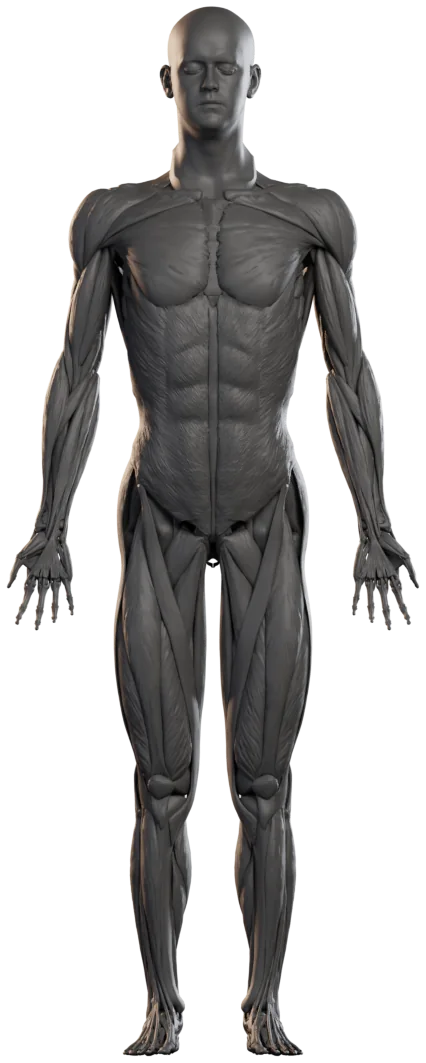
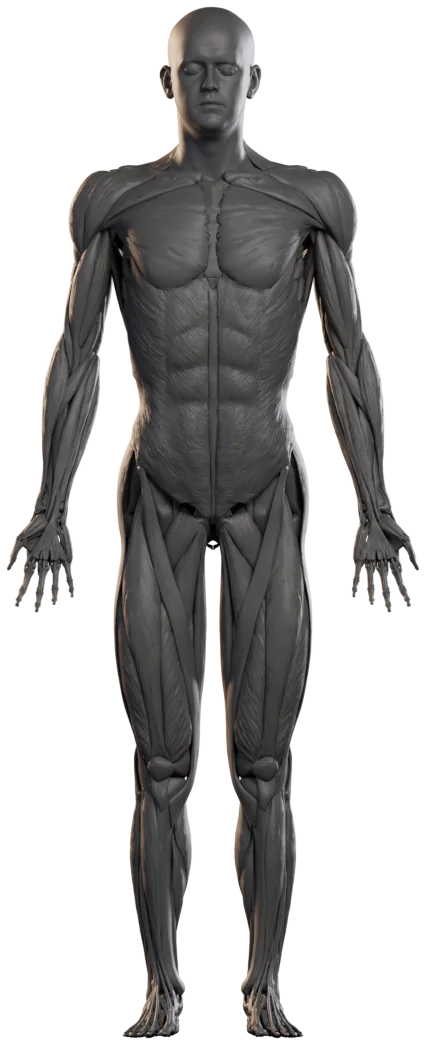
Shorten the anatomy figure's neck
Lowers the head scan 3 cm onto the traps for a thicker, more athletic neck.
Re-rendered beauty and ID maps.

Claude-Session: https://claude.ai/code/session_018p5ShPLkAdsKbAirBRCepd

diff --git a/styles.css b/styles.css
@@ -382,7 +382,7 @@ select.txt { background-image: linear-gradient(45deg, transparent 50%, var(--mu)
 .body-map { display: grid; grid-template-columns: 1fr 1fr; gap: 8px; }
 .body-map figure { margin: 0; display: flex; flex-direction: column; align-items: center; }
 .body-map figcaption { font-size: 11px; font-weight: 700; letter-spacing: .08em; text-transform: uppercase; color: var(--mu2); margin-top: 4px; }
-.body-cv { width: 100%; max-width: 190px; aspect-ratio: 426 / 1063; height: auto; display: block; cursor: pointer; }
+.body-cv { width: 100%; max-width: 190px; aspect-ratio: 426 / 1045; height: auto; display: block; cursor: pointer; }
 .body-map { background: radial-gradient(60% 45% at 50% 40%, rgba(255, 138, 61, .06), transparent 70%); border-radius: 14px; padding-top: 6px; }
 .body-legend { display: flex; align-items: center; gap: 8px; margin: 12px 4px 0; font-size: 11.5px; color: var(--mu); font-weight: 600; }
 .body-legend i { flex: 1; height: 6px; border-radius: 6px; background: linear-gradient(90deg, #3a3633, #a8471c, var(--accent2)); }

diff --git a/sw.js b/sw.js
@@ -1,5 +1,5 @@
 // Stale-while-revalidate app shell: opens instantly offline, picks up new versions on next launch.
-const CACHE = 'kiln-v11';
+const CACHE = 'kiln-v12';
 const ASSETS = ['./', 'index.html', 'styles.css', 'exercises.js', 'body.js', 'app.js', 'manifest.webmanifest',
   'img/body-front.webp', 'img/body-back.webp', 'img/body-front-id.png', 'img/body-back-id.png',
   'icons/icon-192.png', 'icons/icon-512.png', 'icons/apple-touch-icon.png'];

diff --git a/tools/blender/render.py b/tools/blender/render.py
@@ -79,6 +79,7 @@ if args.get('scanhead') and args.get('head_z'):
     bpy.ops.import_scene.gltf(filepath=args['scanhead'])
     scan = [o for o in sc.objects if o not in before and o.type == 'MESH'][0]
     for o in [o for o in sc.objects if o not in before and o is not scan]: o.hide_render = True
+    DROP = args.get('head_drop', 0.0)   # lower the head to shorten the neck
     bm = bmesh.new(); bm.from_mesh(scan.data); bmesh.ops.transform(bm, matrix=scan.matrix_world, verts=bm.verts)
     top = max(v.co.z for v in bm.verts)
     chin = min(v.co.z for v in bm.verts if abs(v.co.x) < 0.4 and v.co.y < -1.0)
@@ -87,7 +88,7 @@ if args.get('scanhead') and args.get('head_z'):
     k = H / (top - chin)
     for v in bm.verts:
         c = v.co
-        v.co = mathutils.Vector((c.x * k, args.get('scan_nose_y', -0.118) + (c.y - nose_y) * k, args.get('scan_top', 1.712) - (top - c.z) * k))
+        v.co = mathutils.Vector((c.x * k, args.get('scan_nose_y', -0.118) + (c.y - nose_y) * k, args.get('scan_top', 1.712) - (top - c.z) * k - DROP))
     # weld the scan's split seams first, then add resolution so the neck edge can be shaped smoothly
     bmesh.ops.remove_doubles(bm, verts=bm.verts, dist=args.get('scan_weld', 0.0004))
     bmesh.ops.subdivide_edges(bm, edges=bm.edges, cuts=args.get('scan_cuts', 2), use_grid_fill=True, smooth=0.5)
@@ -109,7 +110,7 @@ if args.get('scanhead') and args.get('head_z'):
         return ((c.x / rx) ** 2 + ((c.y - ncy) / ry) ** 2) > 1
     if args.get('neck_squeeze', True):
         # squeeze (don't cut) the neck into the column so it stays a closed tube; only the bottom is cut
-        top = args.get('neck_top', 1.535)
+        top = args.get('neck_top', 1.535) - DROP
         for v in bm.verts:
             c = v.co
             if c.z >= top: continue
@@ -118,7 +119,7 @@ if args.get('scanhead') and args.get('head_z'):
             e = math.sqrt((c.x / rx) ** 2 + ((c.y - ncy) / ry) ** 2)
             if e <= 1: continue
             w = smoothstep_(c.z, top, top - 0.035)
-            if c.z > 1.478 and c.y < ncy - 0.01 and abs(c.x) < rx0: w *= 0.0          # leave the jaw alone
+            if c.z > 1.478 - DROP and c.y < ncy - 0.01 and abs(c.x) < rx0: w *= 0.0          # leave the jaw alone
             cen = mathutils.Vector((0, ncy, c.z))
             v.co = c.lerp(cen + (c - cen) / e, w)
         dead = [v for v in bm.verts if v.co.z < args.get('scan_cut', 1.40) or

diff --git a/tools/blender/README.md b/tools/blender/README.md
@@ -13,7 +13,7 @@ Source of `img/body-*.webp` (sculpted render) and `img/body-*-id.png` (muscle gr
 COMMON='"fbx": ".../MuscularSystem100.fbx", "skel": ".../SkeletalSystem100.fbx", "skin": ".../Regions of human body100.fbx",
   "views": ["front", "back"], "res": [600, 1200], "head_z": 1.535, "core_dy": 0.015, "core_s": 0.84, "core_sy": 0.78, "eye_back": 2.6, "scanhead": ".../LeePerrySmith.glb",
   "neck_rx": 0.066, "neck_ry": 0.074, "scan_cut": 1.385, "back_cut": 1.44, "flush_band": 0.055,
-  "neck_flare": 0.18, "neck_top": 1.535, "jaw_keep_x": 1.0, "masc": {"neck": 0, "jaw": 0, "chin": 0, "brow": 0, "dome": 1, "skull_w": 0}'
+  "neck_flare": 0.18, "neck_top": 1.535, "jaw_keep_x": 1.0, "head_drop": 0.03, "masc": {"neck": 0, "jaw": 0, "chin": 0, "brow": 0, "dome": 1, "skull_w": 0}'
 python -I render.py "{\"mode\": \"id\", \"out\": \"out\", $COMMON}"            # rename to *-id.png
 python -I render.py "{\"mode\": \"beauty\", \"out\": \"out\", \"samples\": 128, \"light\": 0.28, \"clay\": [0.045,0.044,0.043], $COMMON}"
 ```
